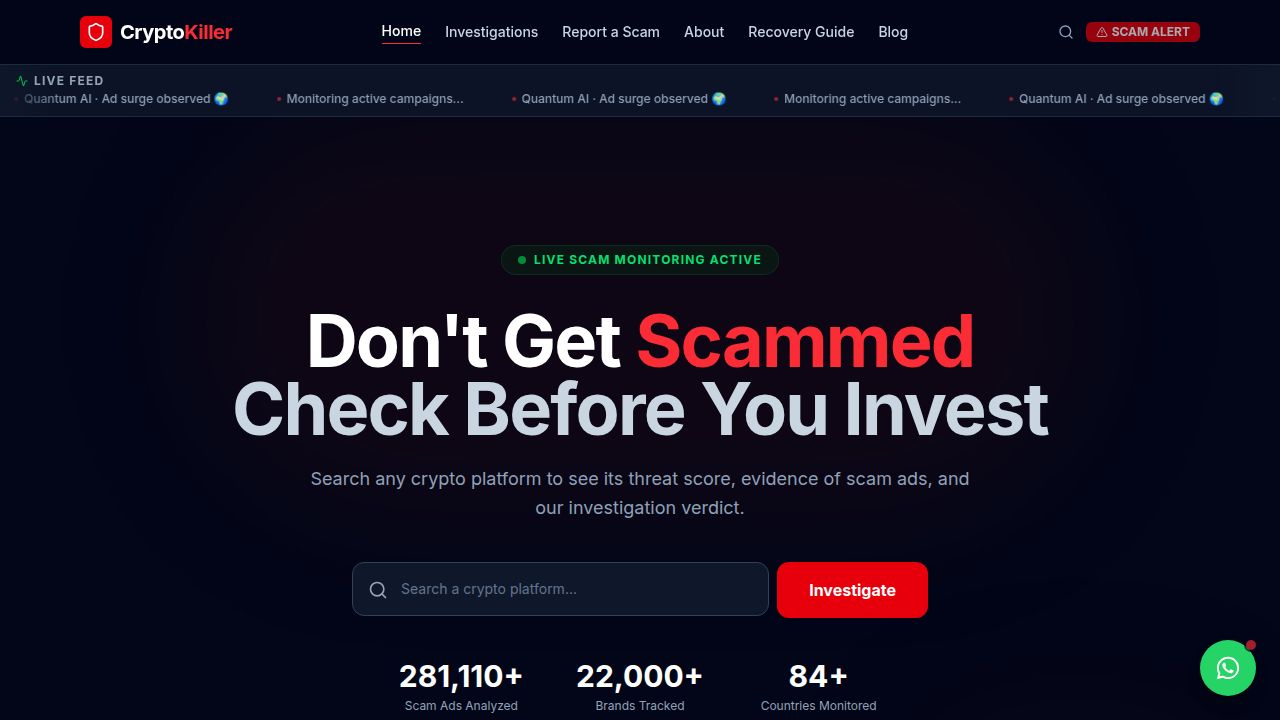
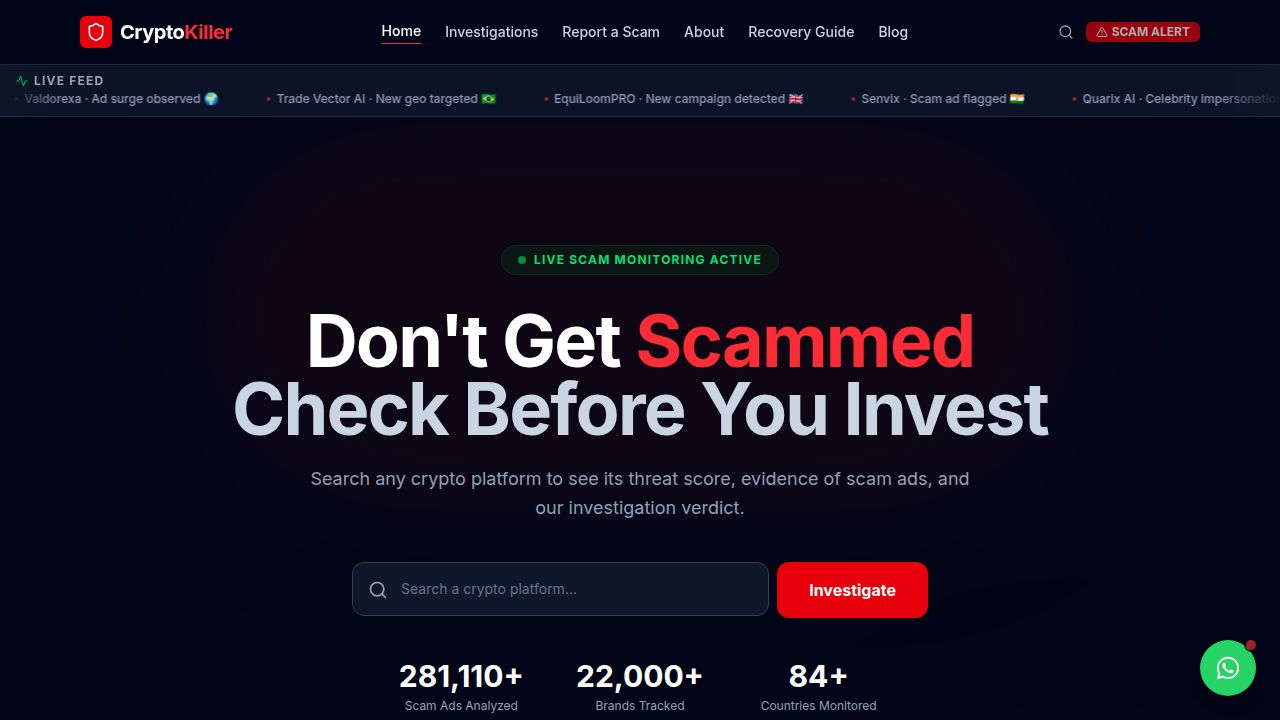
Add AI disclosure page and integrate reviewer information into content metadata
Introduce a new page detailing the AI disclosure and editorial standards, and associate a named reviewer with content to enhance transparency and accountability.

Replit-Commit-Author: Agent
Replit-Commit-Session-Id: dedbb0f3-7663-4722-919a-b8fb47a9f9f9
Replit-Commit-Checkpoint-Type: full_checkpoint
Replit-Commit-Event-Id: 31fa8ab1-43f3-46a3-b9b6-9997cc14eb03
Replit-Commit-Screenshot-Url: https://storage.googleapis.com/screenshot-production-us-central1/bf69dede-f0aa-42c6-815e-9782b721af51/dedbb0f3-7663-4722-919a-b8fb47a9f9f9/Oz35ZNO
Replit-Helium-Checkpoint-Created: true

Changed region(s): [[0.2188, 0.1222, 1.0, 0.1528], [0.0312, 0.1222, 0.1875, 0.1528]]

diff --git a/artifacts/crypto-review/src/pages/AiDisclosurePage.tsx b/artifacts/crypto-review/src/pages/AiDisclosurePage.tsx
@@ -1,0 +1,255 @@
+import {
+  Bot, FileSearch, PenLine, ShieldCheck, UserCheck, Camera,
+  Cpu, Mail, ExternalLink,
+} from "lucide-react";
+import SiteHeader from "@/components/SiteHeader";
+import SiteFooter from "@/components/SiteFooter";
+import { usePageMeta } from "@/hooks/usePageMeta";
+import Breadcrumbs, { breadcrumbJsonLd } from "@/components/Breadcrumbs";
+
+const REVIEWER_LINKEDIN = "https://www.linkedin.com/in/john-feldt-240838249/";
+
+const pipeline = [
+  {
+    step: "01",
+    icon: <FileSearch className="h-5 w-5" />,
+    title: "Evidence first",
+    desc: "An investigation only begins once verifiable evidence has been collected and archived — captured advertisements, landing pages, domain and infrastructure records, regulator bulletins, and corroborated victim reports. The facts are gathered before anything is written.",
+    color: "text-red-400",
+    borderColor: "border-red-900/40",
+  },
+  {
+    step: "02",
+    icon: <PenLine className="h-5 w-5" />,
+    title: "AI-assisted drafting",
+    desc: "AI turns the collected evidence into a structured draft. It is not permitted to invent facts, figures, or sources — every claim must trace back to evidence already on file. AI accelerates the writing; it never decides what is true.",
+    color: "text-amber-400",
+    borderColor: "border-amber-900/40",
+  },
+  {
+    step: "03",
+    icon: <ShieldCheck className="h-5 w-5" />,
+    title: "Automated quality & source-liveness gates",
+    desc: "Before a draft reaches a human, automated checks verify that the cited sources are real and reachable and that the draft meets our quality bar. Drafts that fail the gates are sent back, not published.",
+    color: "text-blue-400",
+    borderColor: "border-blue-900/40",
+  },
+  {
+    step: "04",
+    icon: <UserCheck className="h-5 w-5" />,
+    title: "Human editorial review",
+    desc: "A named human editor reviews the investigation against the evidence and is accountable for what is published. Nothing goes live without passing this review.",
+    color: "text-green-400",
+    borderColor: "border-green-900/40",
+  },
+];
+
+export default function AiDisclosurePage() {
+  const crumbs = [
+    { label: "Home", href: "https://cryptokiller.org/" },
+    { label: "AI Disclosure & Editorial Standards", href: "https://cryptokiller.org/ai-disclosure" },
+  ];
+
+  usePageMeta({
+    title: "AI Disclosure & Editorial Standards — CryptoKiller",
+    description: "How CryptoKiller uses AI: investigations are AI-drafted from collected evidence, pass automated source-verification gates, and are reviewed by a named human editor before publishing.",
+    canonical: "https://cryptokiller.org/ai-disclosure",
+    ogType: "article",
+    jsonLd: {
+      "@context": "https://schema.org",
+      "@graph": [
+        breadcrumbJsonLd(crumbs),
+        {
+          "@type": "WebPage",
+          "@id": "https://cryptokiller.org/ai-disclosure#webpage",
+          url: "https://cryptokiller.org/ai-disclosure",
+          name: "AI Disclosure & Editorial Standards — CryptoKiller",
+          description: "How CryptoKiller uses AI: investigations are AI-drafted from collected evidence, pass automated source-verification gates, and are reviewed by a named human editor before publishing.",
+          isPartOf: { "@type": "WebSite", name: "CryptoKiller", url: "https://cryptokiller.org" },
+          publisher: { "@type": "Organization", name: "CryptoKiller", url: "https://cryptokiller.org" },
+          inLanguage: "en",
+        },
+      ],
+    },
+  });
+
+  return (
+    <div className="min-h-screen bg-slate-950 text-slate-50 font-sans selection:bg-red-900 selection:text-white">
+      <SiteHeader />
+
+      <main className="container mx-auto px-4 py-10 max-w-4xl">
+        <Breadcrumbs items={[
+          { label: "Home", href: "/" },
+          { label: "AI Disclosure" },
+        ]} />
+
+        <div className="text-center mb-16">
+          <div className="inline-flex items-center gap-2 bg-slate-800/60 border border-slate-700/40 text-slate-300 text-xs font-bold uppercase tracking-widest px-4 py-2 rounded-full mb-5">
+            <Bot className="h-3.5 w-3.5" />
+            AI Disclosure
+          </div>
+          <h1 className="text-4xl md:text-5xl font-black text-white mb-5">
+            AI Disclosure &amp; <span className="text-red-500">Editorial Standards</span>
+          </h1>
+          <p className="text-slate-400 max-w-3xl mx-auto leading-relaxed text-lg">
+            CryptoKiller is transparent about how its investigations are produced. Our content is
+            AI-drafted from collected evidence, passes automated source-verification gates, and is
+            reviewed by a named human editor before it is published. AI accelerates how fast we turn
+            verifiable evidence into a structured investigation — it never decides what is true.
+          </p>
+        </div>
+
+        <section className="mb-20" id="how-its-created">
+          <div className="flex items-center gap-3 mb-10">
+            <div className="bg-slate-800 p-2 rounded-lg">
+              <FileSearch className="h-5 w-5 text-red-400" />
+            </div>
+            <h2 className="text-2xl font-black text-white">How our content is created</h2>
+            <div className="flex-1 h-px bg-slate-800 ml-3" />
+          </div>
+
+          <p className="text-slate-400 text-sm leading-relaxed mb-10 max-w-2xl">
+            Our pipeline is evidence-first. AI assists with drafting — it does not gather the facts and
+            it is not allowed to invent them. Every published investigation moves through the same four
+            stages, in order.
+          </p>
+
+          <div className="space-y-0">
+            {pipeline.map((stage, i) => (
+              <div key={stage.step} className="relative flex gap-6">
+                <div className="flex flex-col items-center">
+                  <div className={`w-12 h-12 rounded-xl bg-slate-900 border ${stage.borderColor} flex items-center justify-center shrink-0 ${stage.color}`}>
+                    {stage.icon}
+                  </div>
+                  {i < pipeline.length - 1 && (
+                    <div className="w-px flex-1 bg-slate-800 my-2" />
+                  )}
+                </div>
+                <div className="pb-10">
+                  <div className="flex items-center gap-3 mb-2">
+                    <span className={`text-xs font-mono font-bold ${stage.color}`}>STEP {stage.step}</span>
+                    <h3 className="text-lg font-bold text-white">{stage.title}</h3>
+                  </div>
+                  <p className="text-slate-400 text-sm leading-relaxed max-w-2xl">{stage.desc}</p>
+                </div>
+              </div>
+            ))}
+          </div>
+        </section>
+
+        <section className="mb-20" id="ai-level">
+          <div className="flex items-center gap-3 mb-10">
+            <div className="bg-slate-800 p-2 rounded-lg">
+              <Cpu className="h-5 w-5 text-amber-400" />
+            </div>
+            <h2 className="text-2xl font-black text-white">Level of AI assistance</h2>
+            <div className="flex-1 h-px bg-slate-800 ml-3" />
+          </div>
+
+          <div className="bg-slate-900/60 border-l-2 border-amber-500/60 rounded-r-xl p-6 mb-6">
+            <p className="text-amber-300 font-bold text-sm mb-2">
+              AI-generated with human editorial review (L3 on the L0–L4 scale).
+            </p>
+            <p className="text-slate-400 text-sm leading-relaxed">
+              AI produces the draft from collected evidence, and a named human editor reviews it
+              against that evidence before publication. The human reviewer — not the model — is
+              accountable for the published page.
+            </p>
+          </div>
+
+          <div className="grid grid-cols-1 md:grid-cols-2 gap-4">
+            <div className="bg-slate-900/60 border border-slate-800 rounded-xl p-5">
+              <div className="flex items-center gap-2 mb-2">
+                <Cpu className="h-4 w-4 text-purple-400" />
+                <h4 className="text-white font-bold text-sm">AI-generated images</h4>
+              </div>
+              <p className="text-slate-400 text-sm leading-relaxed">
+                AI-generated images on this site carry the IPTC DigitalSourceType value
+                <span className="font-mono text-slate-300"> trainedAlgorithmicMedia</span>, identifying
+                them as machine-generated.
+              </p>
+            </div>
+            <div className="bg-slate-900/60 border border-slate-800 rounded-xl p-5">
+              <div className="flex items-center gap-2 mb-2">
+                <Camera className="h-4 w-4 text-blue-400" />
+                <h4 className="text-white font-bold text-sm">Scam-ad screenshots</h4>
+              </div>
+              <p className="text-slate-400 text-sm leading-relaxed">
+                Screenshots of scam advertisements are captured evidence — they are real artefacts we
+                recorded from live ad campaigns, not AI-generated images.
+              </p>
+            </div>
+          </div>
+        </section>
+
+        <section className="mb-20" id="accountability">
+          <div className="flex items-center gap-3 mb-10">
+            <div className="bg-slate-800 p-2 rounded-lg">
+              <UserCheck className="h-5 w-5 text-green-400" />
+            </div>
+            <h2 className="text-2xl font-black text-white">Accountability</h2>
+            <div className="flex-1 h-px bg-slate-800 ml-3" />
+          </div>
+
+          <div className="bg-slate-900/60 border border-slate-800 rounded-2xl p-6 mb-6">
+            <h3 className="text-white font-bold text-lg mb-1">John Feldt</h3>
+            <p className="text-slate-400 text-sm mb-4">Editorial Standards Reviewer</p>
+            <p className="text-slate-400 text-sm leading-relaxed mb-4">
+              John Feldt is publicly accountable for our editorial standards and signs off on the
+              investigations we publish.
+            </p>
+            <a
+              href={REVIEWER_LINKEDIN}
+              target="_blank"
+              rel="noopener noreferrer"
+              className="inline-flex items-center gap-2 text-sm text-blue-400 hover:text-blue-300 transition-colors font-semibold"
+            >
+              LinkedIn profile
+              <ExternalLink className="h-3.5 w-3.5" />
+            </a>
+          </div>
+
+          <div className="space-y-4">
+            <div className="bg-slate-900/60 border border-slate-800 rounded-xl p-6">
+              <h4 className="text-white font-bold text-sm mb-2">Analyst personas</h4>
+              <p className="text-slate-400 text-sm leading-relaxed">
+                Individual analysts publish under consistent personas to protect their operational
+                security, because scam operations are frequently run by organised groups that
+                retaliate against investigators. Personas are stable and accountable — they are a
+                security measure, not anonymity.
+              </p>
+            </div>
+            <div className="bg-slate-900/60 border border-slate-800 rounded-xl p-6">
+              <h4 className="text-white font-bold text-sm mb-2">Publisher of record</h4>
+              <p className="text-slate-400 text-sm leading-relaxed">
+                The publisher of record for every investigation is DEX Algo Technologies Pte Ltd.,
+                registered in Singapore.
+              </p>
+            </div>
+          </div>
+        </section>
+
+        <section className="mb-16" id="corrections">
+          <div className="bg-slate-900/60 border border-slate-800 rounded-2xl p-8 text-center">
+            <Mail className="h-6 w-6 text-red-400 mx-auto mb-3" />
+            <h3 className="text-white font-bold text-lg mb-3">Corrections</h3>
+            <p className="text-slate-400 text-sm max-w-xl mx-auto mb-5 leading-relaxed">
+              If you believe we have published something inaccurate, email us with the URL of the
+              affected page and a clear explanation of the error. We review every correction request
+              on the merits and publish a dated correction notice when warranted.
+            </p>
+            <a
+              href="mailto:[email redacted]"
+              className="inline-flex items-center gap-2 bg-red-600 hover:bg-red-700 transition-colors text-white font-bold px-6 py-3 rounded-xl text-sm"
+            >
+              <Mail className="h-4 w-4" />
+              [email redacted]
+            </a>
+          </div>
+        </section>
+      </main>
+
+      <SiteFooter />
+    </div>
+  );
+}

diff --git a/artifacts/crypto-review/server/prerender.ts b/artifacts/crypto-review/server/prerender.ts
@@ -267,6 +267,22 @@ function resolveAuthorPersona(personaId: string | null | undefined): {
   return { ref, node };
 }
 
+// Named human reviewer for YMYL E-E-A-T. Emitted as `reviewedBy` on the Review
+// and BlogPosting JSON-LD nodes so Google sees a real, accountable person who
+// signed off on the content (distinct from the persona who authored it). The
+// @id is stable and the url points at the public /ai-disclosure page that
+// documents our editorial standards. Only ever serialized inside the escaped
+// <script type="application/ld+json"> — never rendered into the page body.
+const REVIEWER_PERSON = {
+  "@type": "Person",
+  "@id": `${BASE}/#reviewer-john-feldt`,
+  name: "John Feldt",
+  jobTitle: "Editorial Standards Reviewer",
+  url: `${BASE}/ai-disclosure`,
+  sameAs: ["https://www.linkedin.com/in/john-feldt-240838249/"],
+  worksFor: { "@id": ORG_ID },
+};
+
 function siteHeaderHtml(): string {
   return `<header role="banner"><nav aria-label="Primary"><a href="/">CryptoKiller</a> · <a href="/investigations">Investigations</a> · <a href="/blog">Blog</a> · <a href="/methodology">Methodology</a> · <a href="/recovery">Recovery</a> · <a href="/report">Report a Scam</a> · <a href="/about">About</a></nav></header>`;
 }
@@ -1860,6 +1876,7 @@ ${disclaimerText ? `<section><h2>Editorial notes &amp; disclaimer</h2>${paragrap
       isPartOf: { "@id": WEBSITE_ID },
       publisher: { "@id": ORG_ID },
       author: authorRef,
+      reviewedBy: REVIEWER_PERSON,
       ...(datePublished ? { datePublished } : {}),
       ...(dateModified ? { dateModified } : {}),
       ...(row.wordCount ? { wordCount: row.wordCount } : {}),
@@ -2313,6 +2330,7 @@ ${sourcesHtml}
     isPartOf: { "@id": WEBSITE_ID },
     publisher: { "@id": ORG_ID },
     author: persona ? personRef(persona) : authorNode,
+    reviewedBy: REVIEWER_PERSON,
     ...(datePublished ? { datePublished } : {}),
     ...(dateModified ? { dateModified } : {}),
     wordCount: row.wordCount || undefined,
@@ -2702,6 +2720,52 @@ const STATIC_PAGES: Record<string, () => RenderResult> = {
           question: "Are your investigations peer-reviewed?",
           answer:
             "Every investigation goes through internal peer review: a second analyst independently verifies evidence and scoring before publication. We also publish the full evidence base alongside every investigation, so external peer review is possible. Academic researchers studying crypto fraud can contact us for archive access.",
+        },
+      ],
+    }),
+
+  "/ai-disclosure": () =>
+    renderStaticPage({
+      path: "/ai-disclosure",
+      title: "AI Disclosure & Editorial Standards — CryptoKiller",
+      description:
+        "How CryptoKiller uses AI: investigations are AI-drafted from collected evidence, pass automated source-verification gates, and are reviewed by a named human editor before publishing.",
+      h1: "AI Disclosure & Editorial Standards",
+      ogType: "article",
+      intro:
+        "CryptoKiller is transparent about how its investigations are produced. Our content is AI-drafted from collected evidence, passes automated source-verification gates, and is reviewed by a named human editor before it is published. AI accelerates how fast we turn verifiable evidence into a structured investigation — it never decides what is true, and every published page carries a named human reviewer who is accountable for it.",
+      sections: [
+        {
+          heading: "How our content is created",
+          paragraphs: [
+            "Our pipeline is evidence-first. We begin with evidence we have collected — captured advertisements, landing pages, domain and infrastructure records, regulator bulletins, and corroborated victim reports — and only then draft an investigation from that evidence. AI assists with drafting; it does not gather the facts and it is not permitted to invent them.",
+          ],
+          list: [
+            "Evidence first — an investigation only begins once verifiable evidence has been collected and archived.",
+            "AI-assisted drafting — AI turns the collected evidence into a structured draft, with no invented facts, figures, or sources.",
+            "Automated quality and source-liveness gates — drafts pass automated checks that confirm the cited sources are real and reachable before a human sees them.",
+            "Human editorial review — a named human editor reviews the investigation against the evidence and is accountable for what is published.",
+          ],
+        },
+        {
+          heading: "Level of AI assistance",
+          paragraphs: [
+            "We classify our content as \"AI-generated with human editorial review (L3 on the L0–L4 scale).\" AI produces the draft from collected evidence, and a named human editor reviews it against that evidence before publication. The human reviewer — not the model — is accountable for the published page.",
+            "AI-generated images on this site carry the IPTC DigitalSourceType value trainedAlgorithmicMedia, identifying them as machine-generated. Screenshots of scam advertisements are captured evidence — they are real artefacts we recorded from live ad campaigns, not AI-generated images.",
+          ],
+        },
+        {
+          heading: "Accountability",
+          paragraphs: [
+            "John Feldt is our Editorial Standards Reviewer and is publicly accountable for our editorial standards. His professional profile is at https://www.linkedin.com/in/john-feldt-240838249/.",
+            "Individual analysts publish under consistent personas to protect their operational security, because scam operations are frequently run by organised groups that retaliate against investigators. Personas are stable and accountable — they are a security measure, not anonymity. The publisher of record for every investigation is DEX Algo Technologies Pte Ltd.",
+          ],
+        },
+        {
+          heading: "Corrections",
+          paragraphs: [
+            "If you believe we have published something inaccurate, email [email redacted] with the URL of the affected page and a clear explanation of the error. We review every correction request on the merits and publish a dated correction notice when warranted.",
+          ],
         },
       ],
     }),

diff --git a/artifacts/crypto-review/src/App.tsx b/artifacts/crypto-review/src/App.tsx
@@ -22,6 +22,7 @@ const InvestigationsPage = lazy(() => import("@/pages/InvestigationsPage"));
 const BlogPage = lazy(() => import("@/pages/BlogPage"));
 const BlogPostPage = lazy(() => import("@/pages/BlogPostPage"));
 const MethodologyPage = lazy(() => import("@/pages/MethodologyPage"));
+const AiDisclosurePage = lazy(() => import("@/pages/AiDisclosurePage"));
 const AuthorPage = lazy(() => import("@/pages/AuthorPage"));
 const NotFound = lazy(() => import("@/pages/not-found"));
 
@@ -58,6 +59,7 @@ function Router() {
         <Route path="/privacy" component={() => <PrivacyPage />} />
         <Route path="/terms" component={() => <TermsPage />} />
         <Route path="/methodology" component={() => <MethodologyPage />} />
+        <Route path="/ai-disclosure" component={() => <AiDisclosurePage />} />
         <Route path="/recovery" component={() => <RecoveryPage />} />
         <Route component={NotFound} />
       </Switch>

diff --git a/artifacts/crypto-review/src/components/SiteFooter.tsx b/artifacts/crypto-review/src/components/SiteFooter.tsx
@@ -6,6 +6,7 @@ const footerLinks = [
   { label: "Recovery Guide", href: "/recovery" },
   { label: "About", href: "/about" },
   { label: "Methodology", href: "/methodology" },
+  { label: "AI Disclosure", href: "/ai-disclosure" },
   { label: "Blog", href: "/blog" },
   { label: "Privacy Policy", href: "/privacy" },
   { label: "Terms of Service", href: "/terms" },